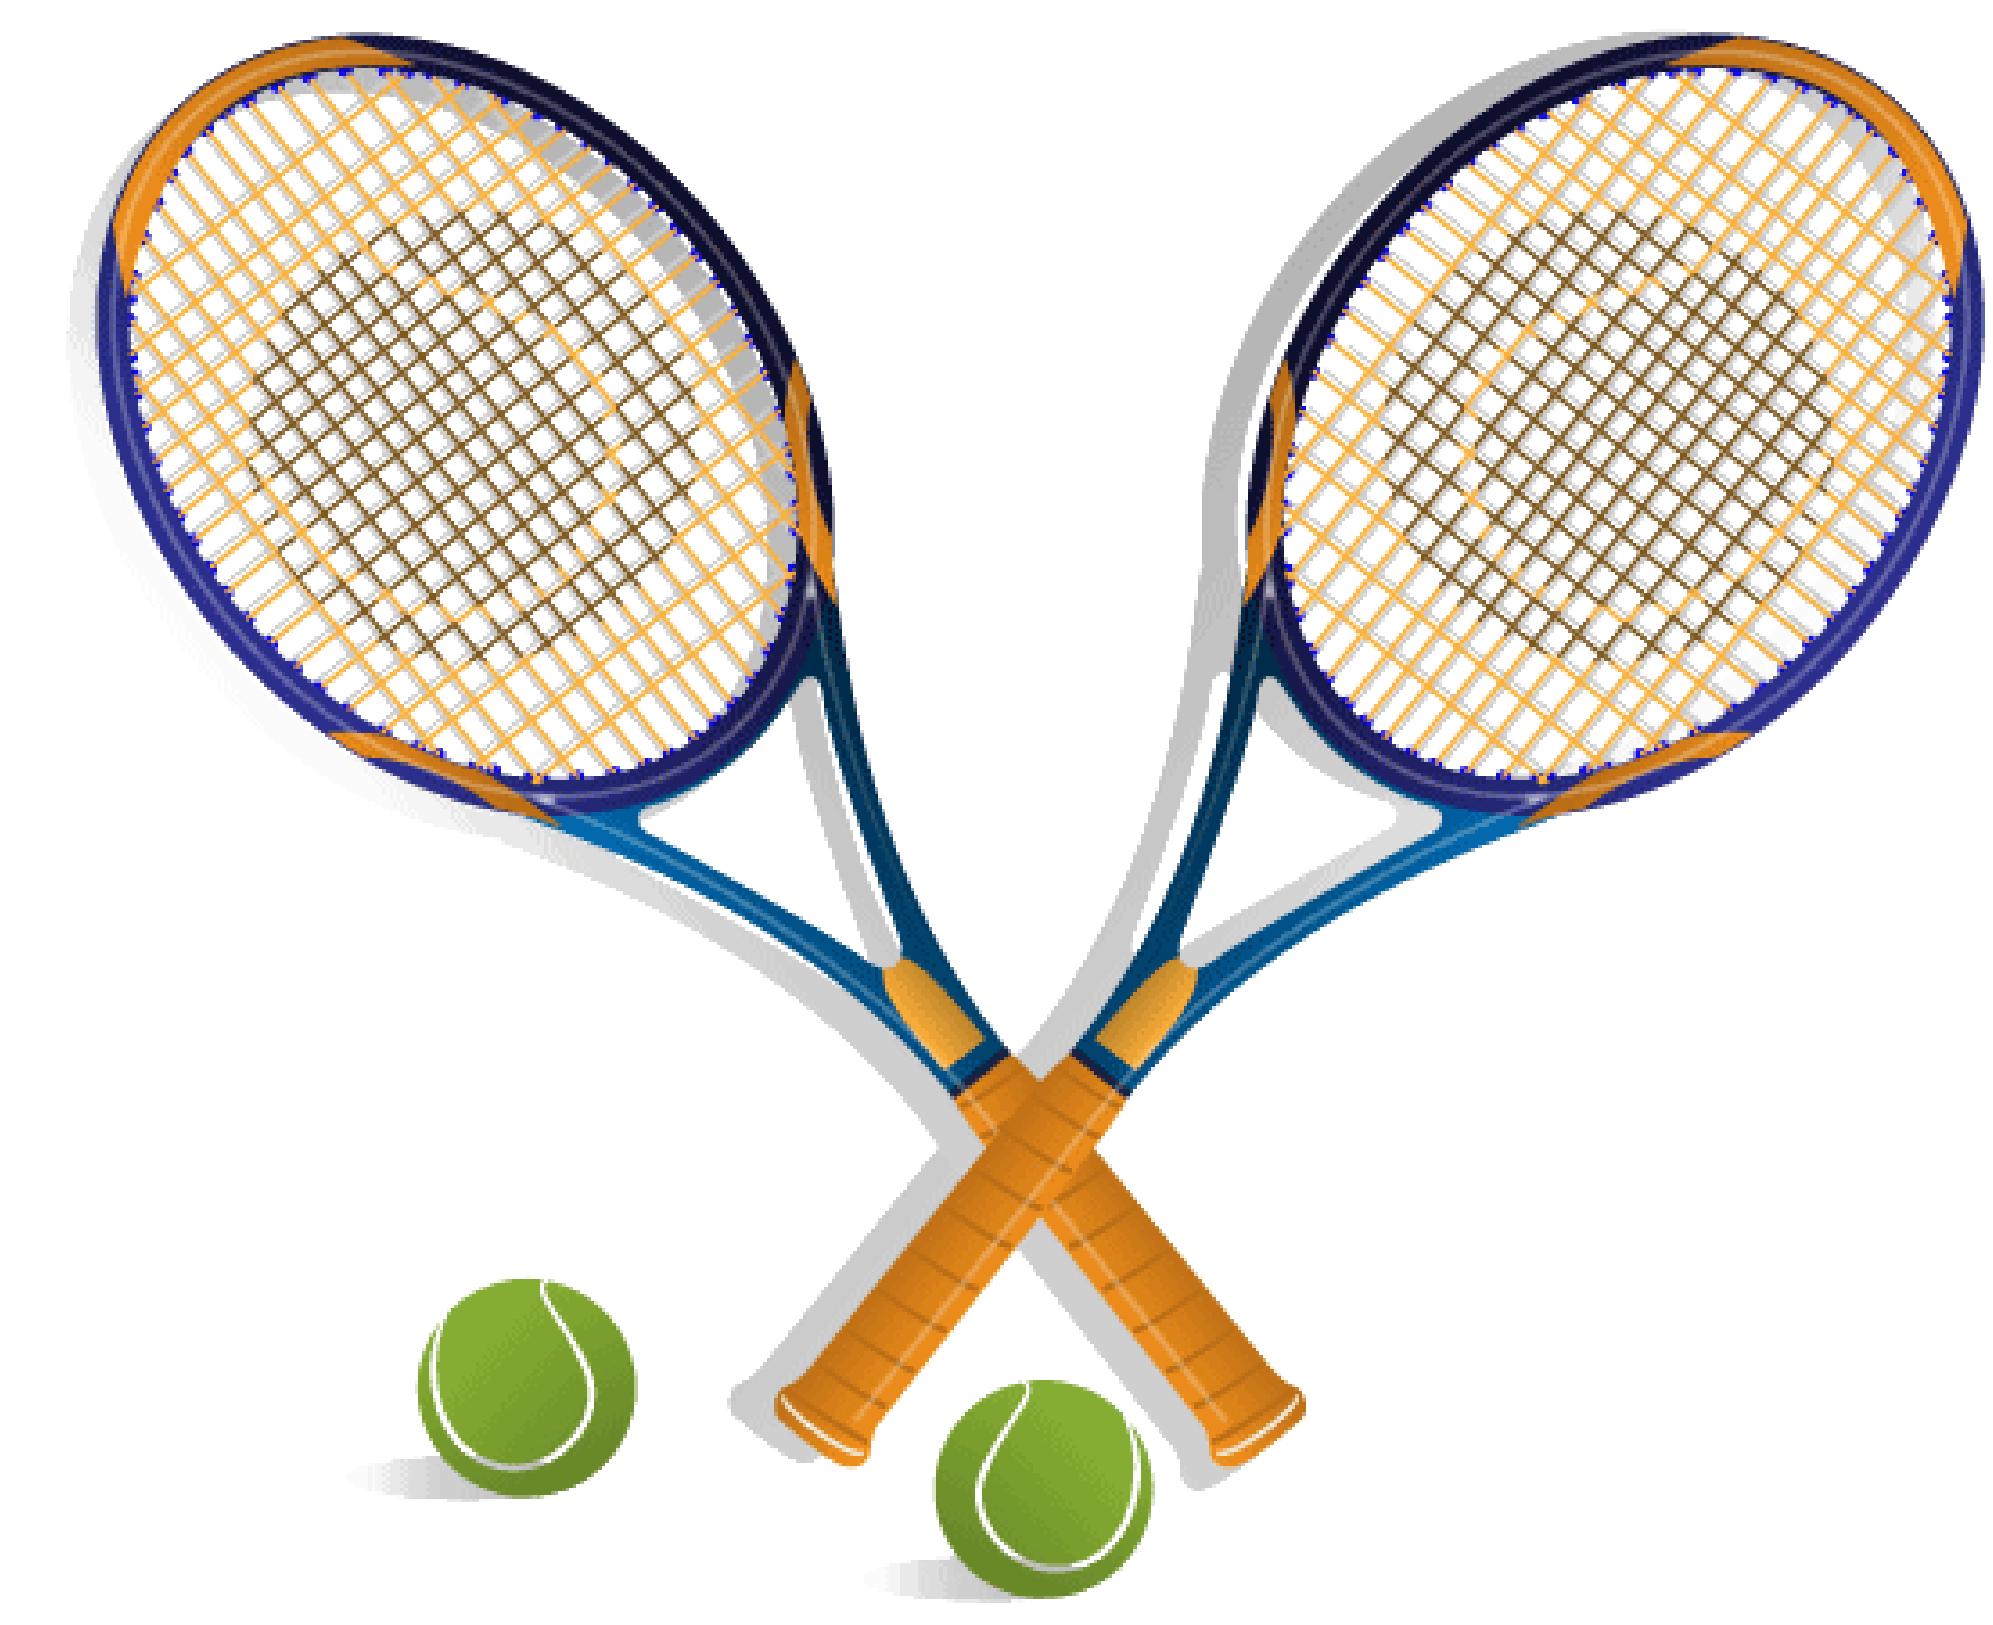
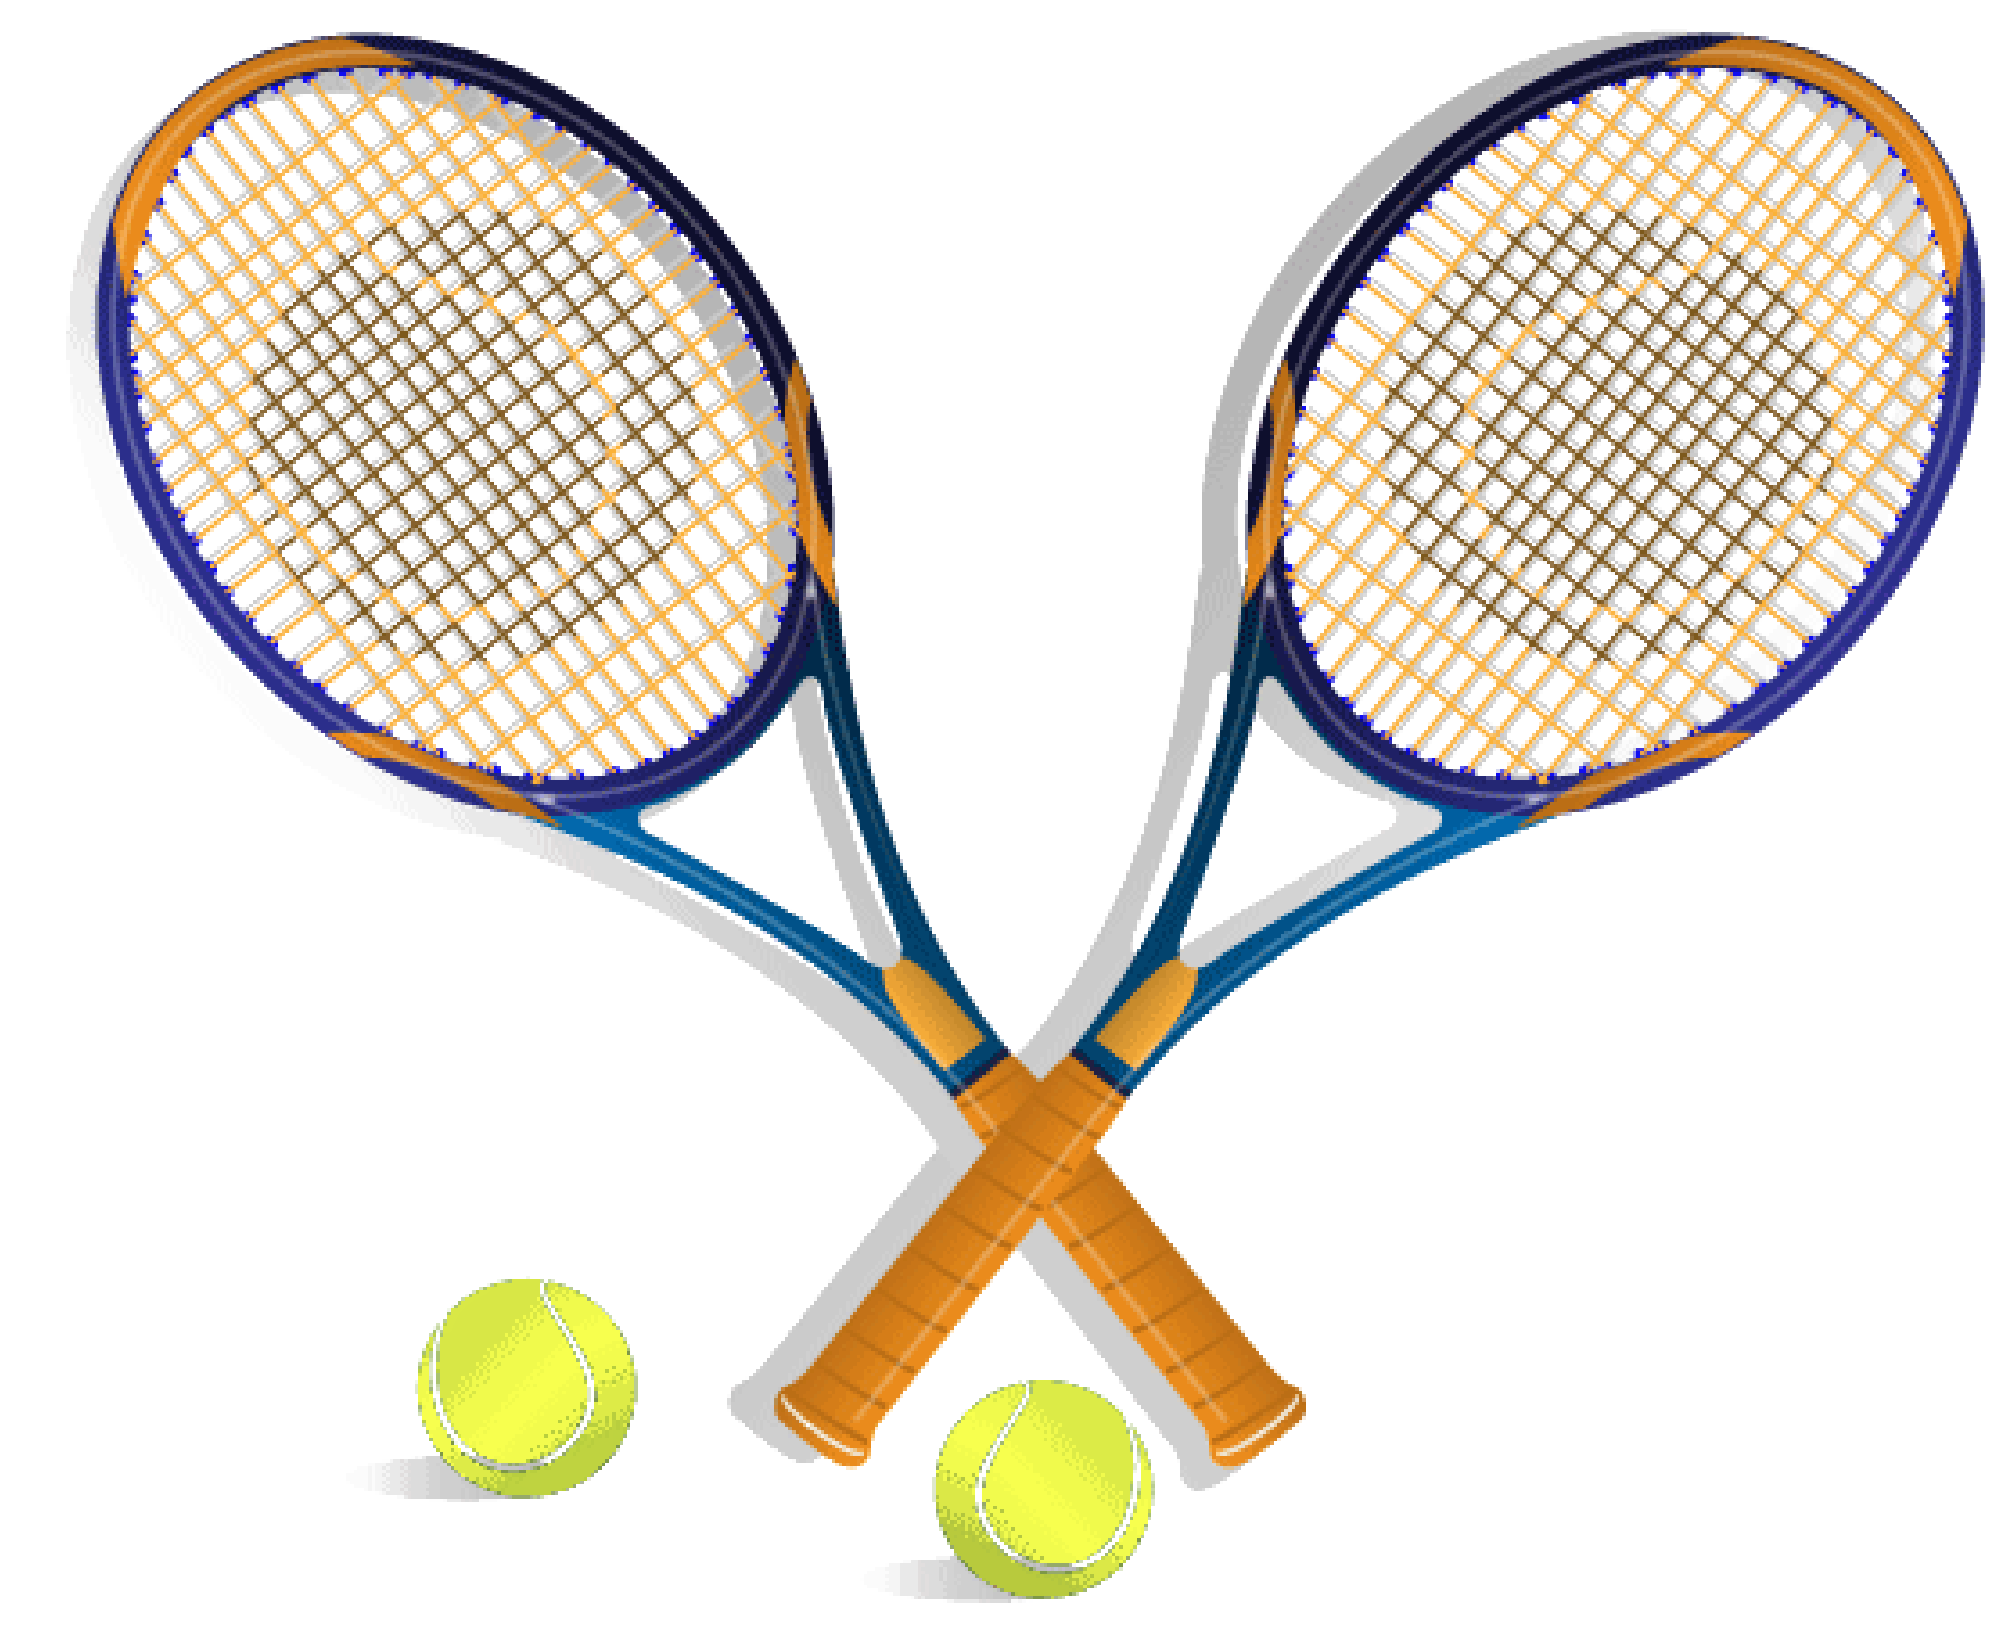
changed tennis balls to yellow and rewrote readme

Changed region(s): [[0.4666, 0.8308, 0.5911, 0.9846], [0.1867, 0.7692, 0.3422, 0.9231]]

diff --git a/README.md b/README.md
@@ -1,7 +1,9 @@
-# Plant Me, Pro!
+# Tennis Match
+For ILIS International
 
 ## What is it?
-This app allows gardeners to keep track of what plants they are growing when they register. 
+
+This app allows tennis players to match up with and record the results of games with other players.
 
 ## Tech Stack Used
 
@@ -13,7 +15,4 @@ This app allows gardeners to keep track of what plants they are growing when the
 
 ## User Stories
 
-[Trello](https://trello.com/b/ODlhLY44/plantme-pro)
-
-## Future Of This App
-I would like to add timers to help determine when a gardener's plants will sprout or be ready for harvest.
+Trello coming soon!
